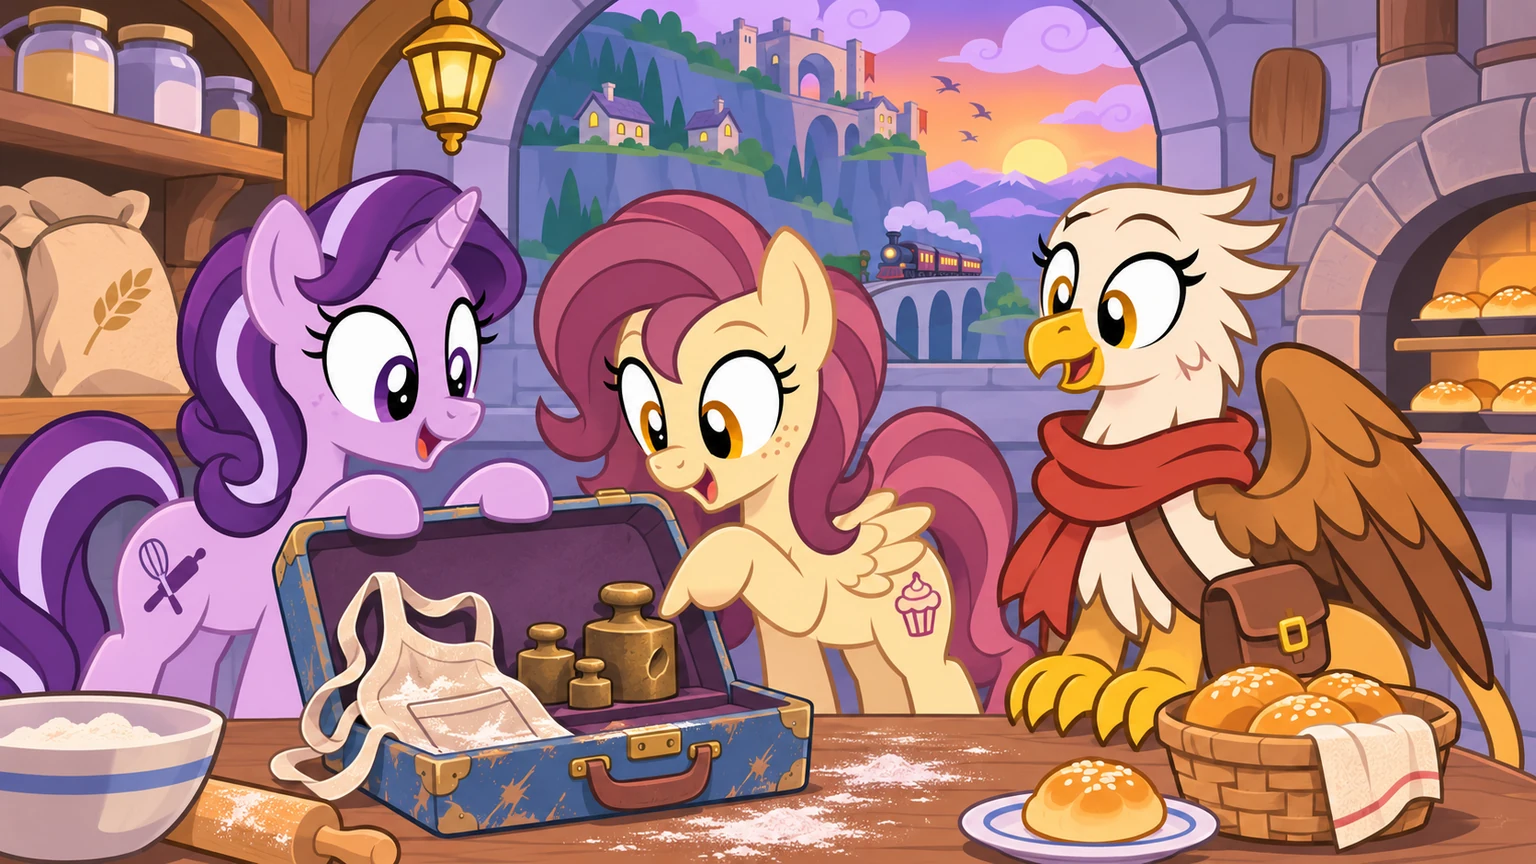
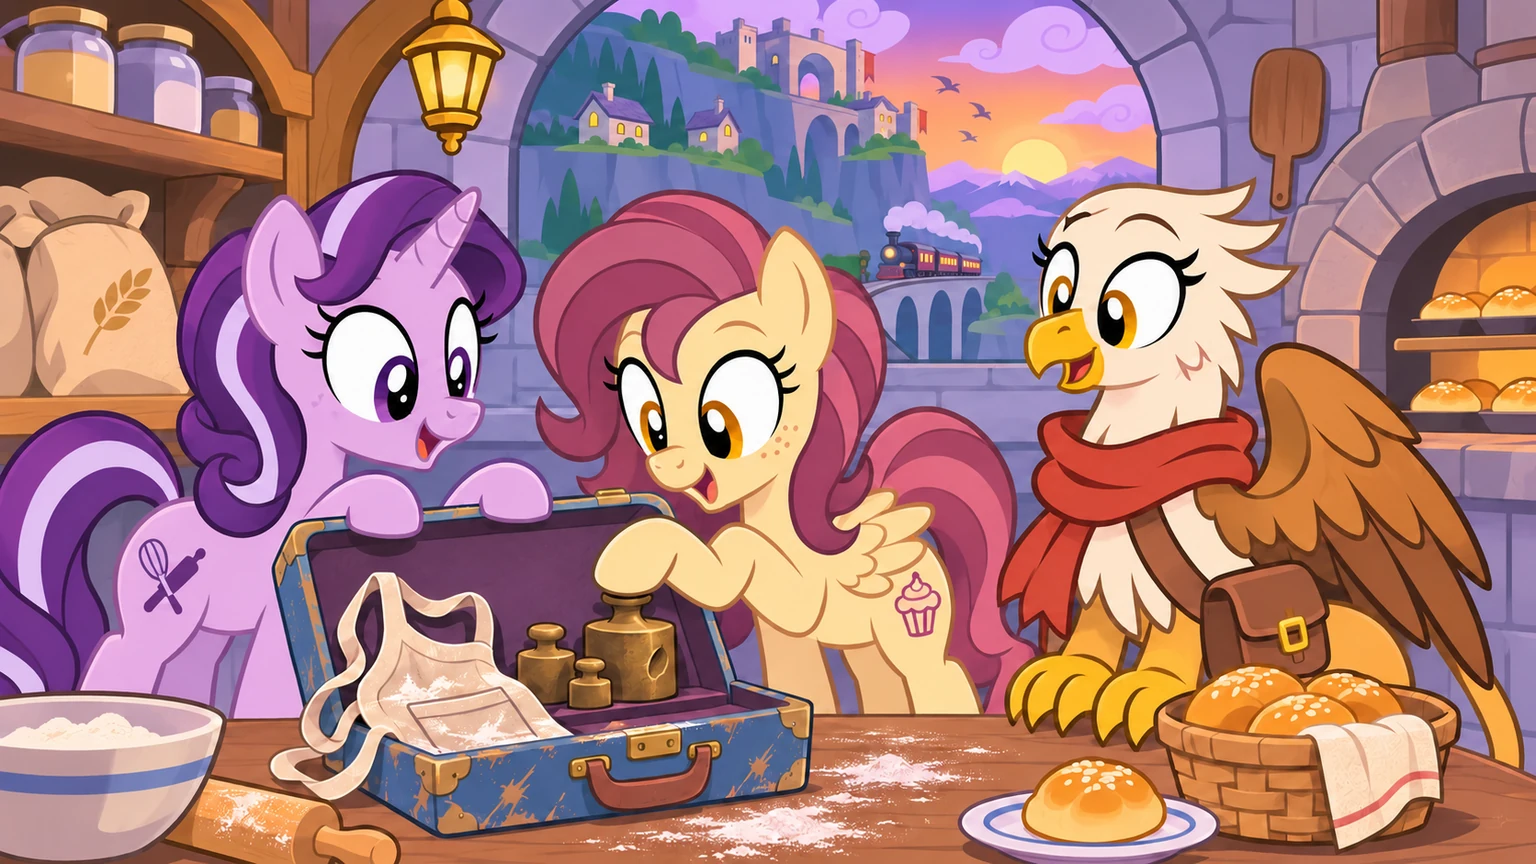
Correct the pony hoof in the baking weights ending

diff --git a/play.js b/play.js
@@ -75,7 +75,7 @@ function render(moveFocus = false) {
   byId('cover-plate').hidden = isEnding;
   endingPlate.hidden = !isEnding;
   if (isEnding) {
-    const imagePath = 'endings/' + key + '.webp?v=griffon-anatomy';
+    const imagePath = 'endings/' + key + '.webp?v=pony-hoof';
     endingImage.alt = node.artAlt;
     endingImage.src = imagePath;
     endingPlate.style.setProperty('--ending-art', 'url("' + imagePath + '")');

diff --git a/index.html b/index.html
@@ -8,7 +8,7 @@
   <title>The Last Train to Griffonstone</title>
   <link rel="stylesheet" href="style.css?v=ending-art">
   <script defer src="story.js?v=ending-art"></script>
-  <script defer src="play.js?v=griffon-anatomy"></script>
+  <script defer src="play.js?v=pony-hoof"></script>
 </head>
 <body>
   <a class="skip" href="#story">Skip to story</a>
